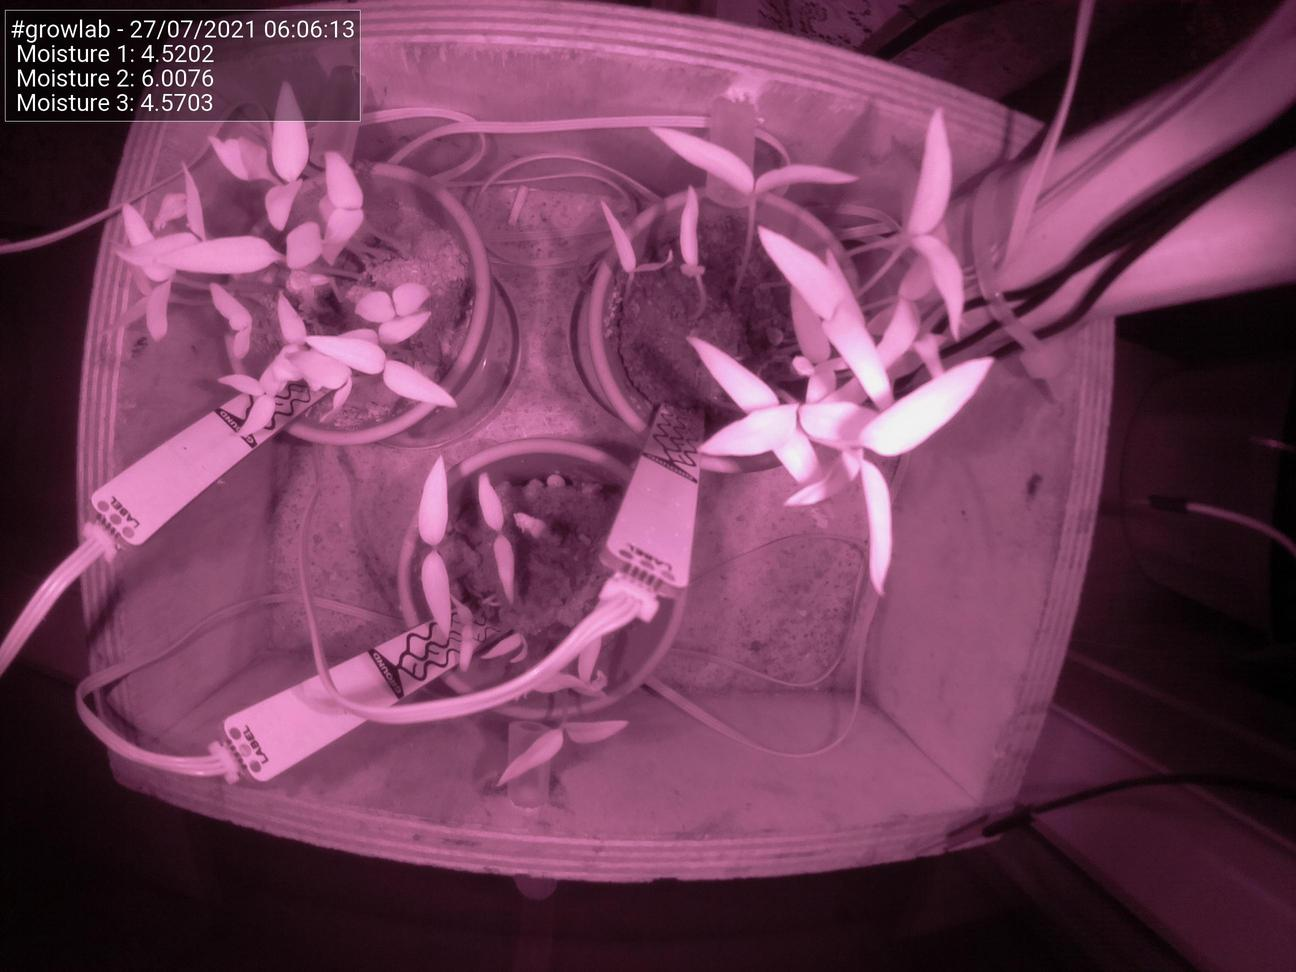
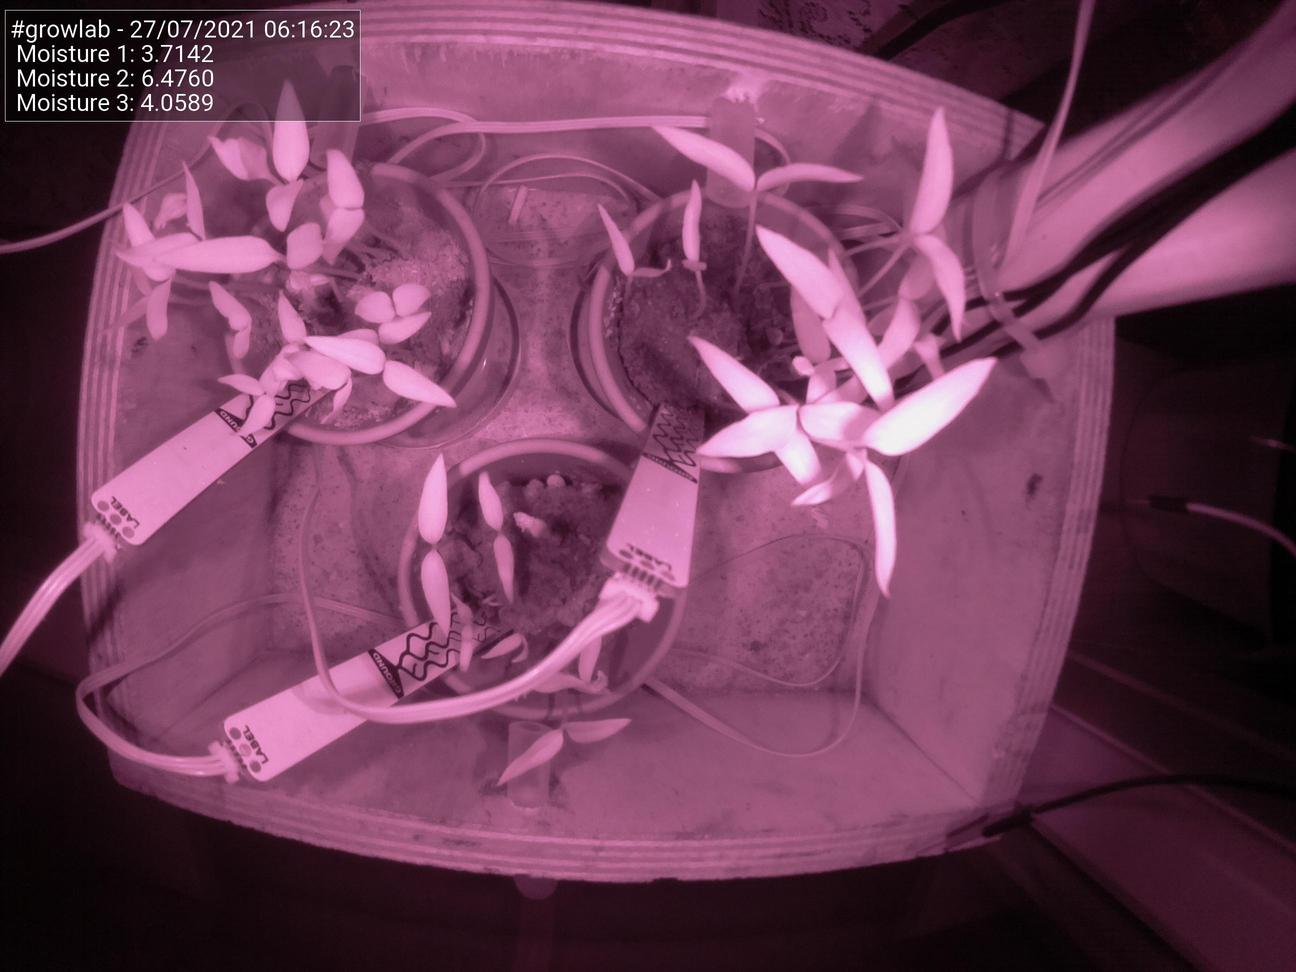
Update images at Tue 27 Jul 06:16:29 BST 2021

diff --git a/docs/index.html b/docs/index.html
@@ -51,25 +51,25 @@
                                 <td>Date</td>
                                 <td>27/07/2021</td>
                                 <td>Time</td>
-                                <td>06:06:13</td>
+                                <td>06:16:23</td>
                             </tr>
                             <tr>
                                 <td>Temperature</td>
                                 <td>N/A</td>
                                 <td>Moisture 1</td>
-                                <td>4.5202</td>
+                                <td>3.7142</td>
                             </tr>
                             <tr>
                                 <td>Humidity</td>
                                 <td>N/A</td>
                                 <td>Moisture 2</td>
-                                <td>6.0076</td>
+                                <td>6.4760</td>
                             </tr>
                             <tr>
                                 <td>Pressure</td>
                                 <td>N/A</td>
                                 <td>Moisture 3</td>
-                                <td>4.5703</td>
+                                <td>4.0589</td>
                             </tr>
                         </tbody>
                     </table>
@@ -77,7 +77,7 @@
 
                 <h5>Latest image</h5>
                 <div style="width: 85%;">
-                            <img class="figure-img img-fluid rounded" src="./preview.jpg?uid=1627362379.5489988">
+                            <img class="figure-img img-fluid rounded" src="./preview.jpg?uid=1627362989.3992066">
                 </div>
             </div>
         </div>
